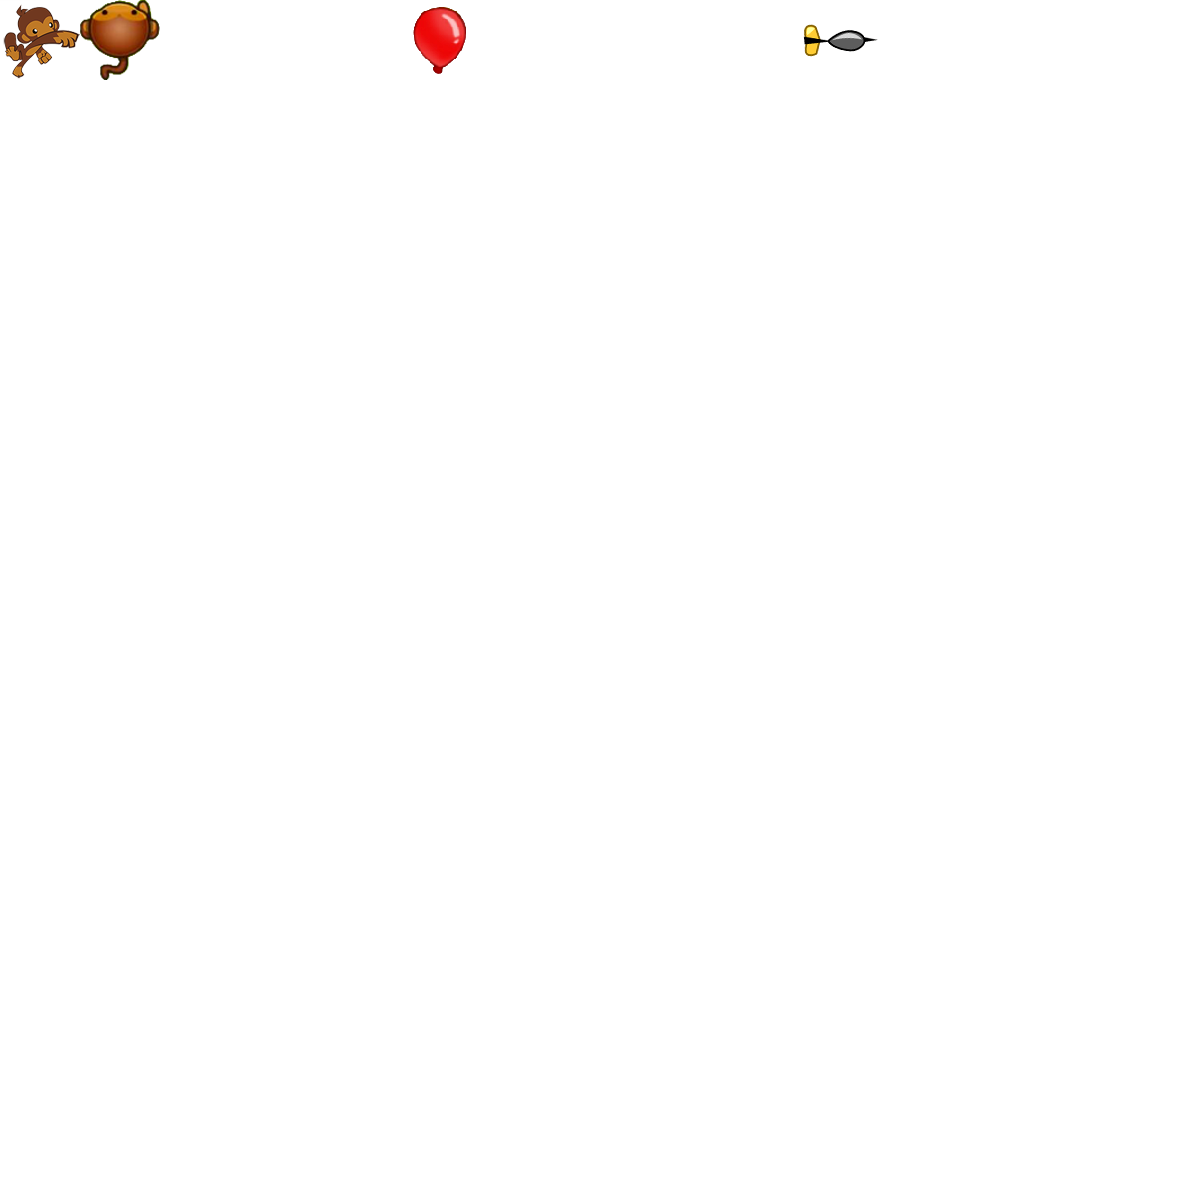
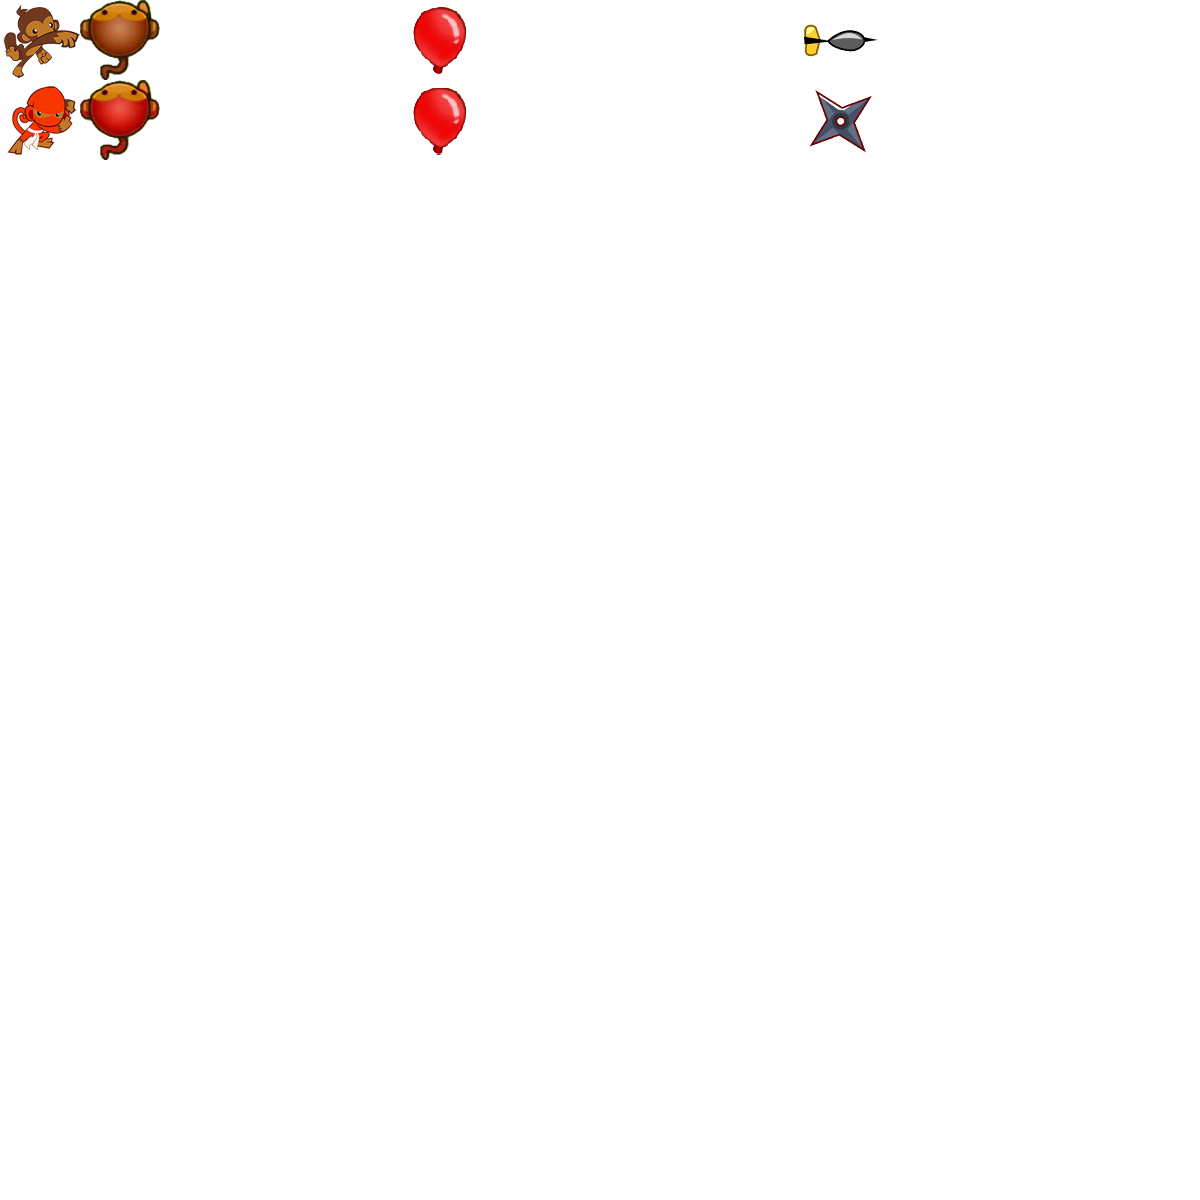
Fix a system for the different players

Changed region(s): [[0.0, 0.0617, 0.1542, 0.1233], [0.6783, 0.0617, 0.74, 0.1233], [0.3392, 0.0617, 0.4008, 0.1233]]

diff --git a/main.c b/main.c
@@ -402,6 +402,27 @@ int main()
         }
       }
 
+      if (state == STATE_PLACE)
+      {
+        int mouse_x = GetMouseX();
+        int mouse_y = GetMouseY();
+
+        // Calculate the tile coordinates based on mouse position
+        int tile_x = mouse_x / TILE_SIZE;
+        int tile_y = mouse_y / TILE_SIZE;
+
+        // Check if the calculated tile coordinates are within the valid range
+        if (tile_x >= 0 && tile_x < COLS && tile_y >= 0 && tile_y < ROWS)
+        {
+          DrawTexturePro(entity_texture,
+            (Rectangle){80, placeing_player.texture_index * TILE_SIZE, TILE_SIZE, TILE_SIZE},
+            (Rectangle){tile_x * TILE_SIZE + TILE_SIZE / 2, tile_y * TILE_SIZE + TILE_SIZE / 2, TILE_SIZE, TILE_SIZE},
+            (Vector2){TILE_SIZE / 2, TILE_SIZE / 2},
+            0,
+            (Color){255, 255, 255, 100});
+        }
+      }
+
       // Draw the players
       for (int i = 0; i < game.players.count; i++)
       {

diff --git a/create/player/create_player.c b/create/player/create_player.c
@@ -4,7 +4,7 @@
 #include "../../entity.h"
 
 #define TILE_SIZE 80
-#define PLAYER_FILE_PATH "../../resources/players/player_1"
+#define PLAYER_FILE_PATH "../../resources/players/player_2"
 
 void serialize_player(const char *path, entity_t *player)
 {
@@ -27,9 +27,9 @@ void serialize_player(const char *path, entity_t *player)
 
 void initialize_player(entity_t *player)
 {
-  player->texture_index = 0;
-  player->cost = 100;
-  player->damage = 50;
+  player->texture_index = 1;
+  player->cost = 200;
+  player->damage = 100;
 	player->radius = 300;
 }
 
